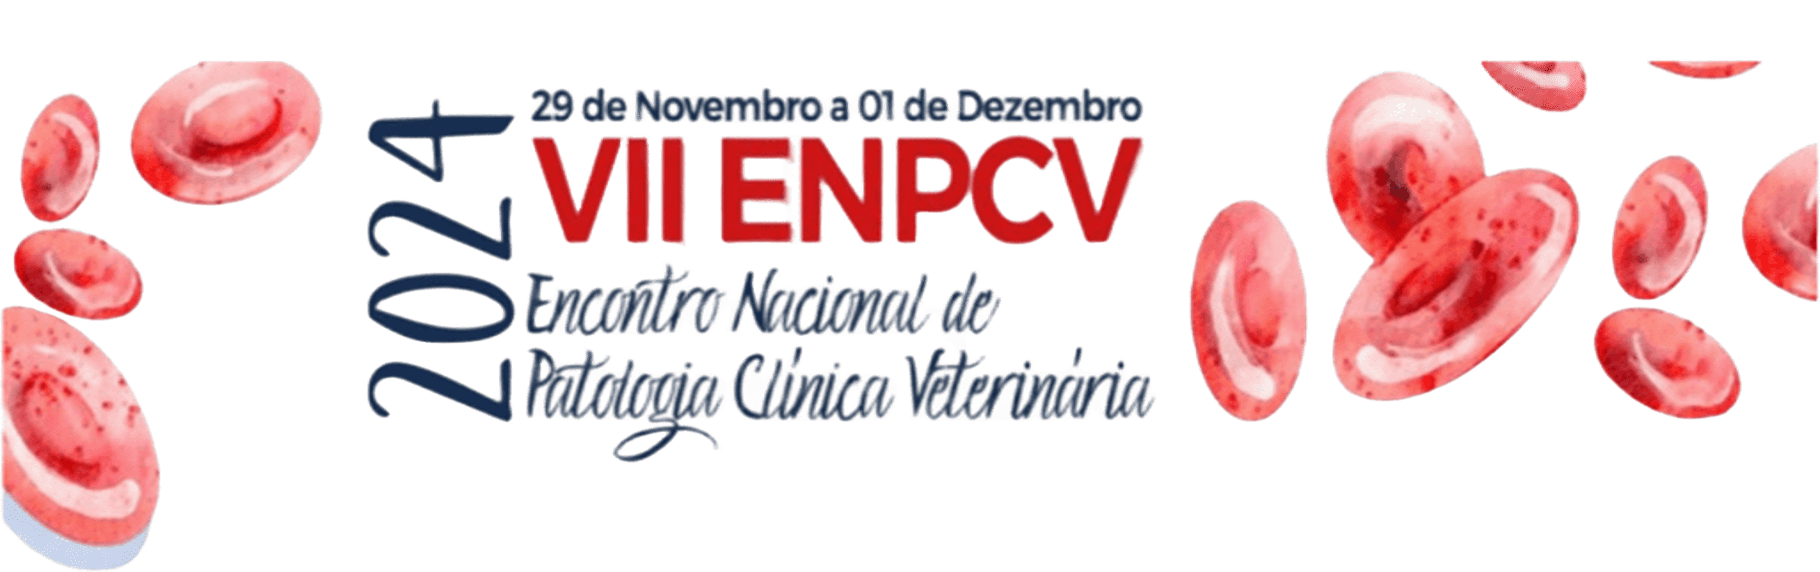
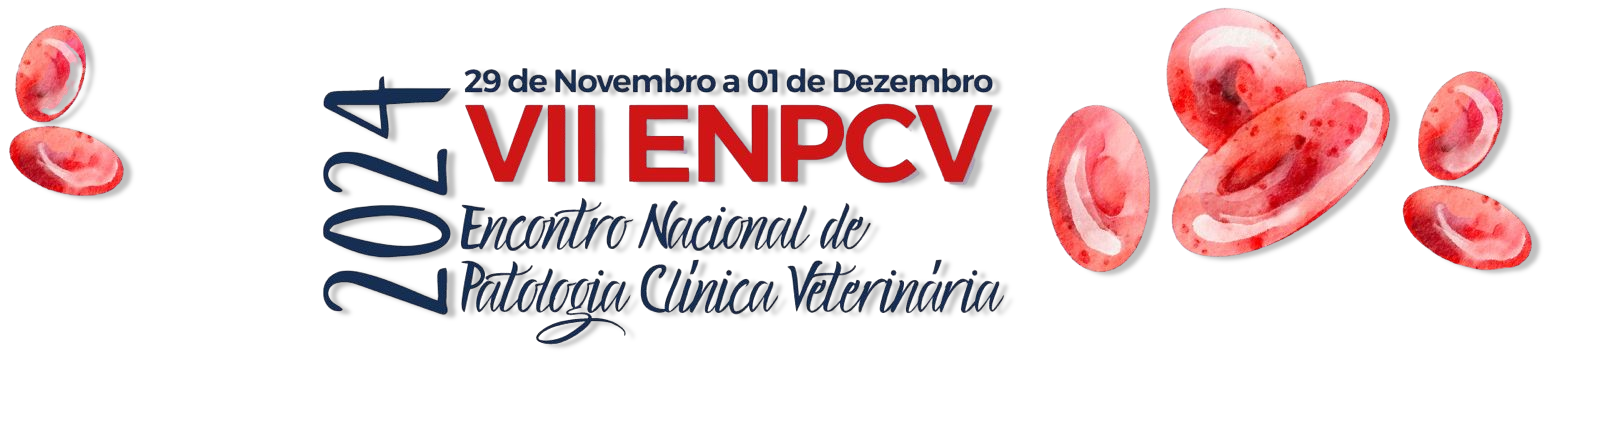
Add files via upload

diff --git a/index.html b/index.html
@@ -16,7 +16,7 @@
             color: #333;
         }
         .header {
-            background: url('titulo2.png') no-repeat center center;
+            background: url('titulo.png') no-repeat center center;
             background-size: contain;
             height: 300px;
             width: 100%;
@@ -50,7 +50,7 @@
             box-shadow: 0 6px 15px rgba(0, 75, 153, 0.4);
         }
         .footer {
-            background-color: #edf2f6;
+            background-color: #ffffff;
             color: #000000;
             padding: 40px 20px;
             margin-top: 40px;
